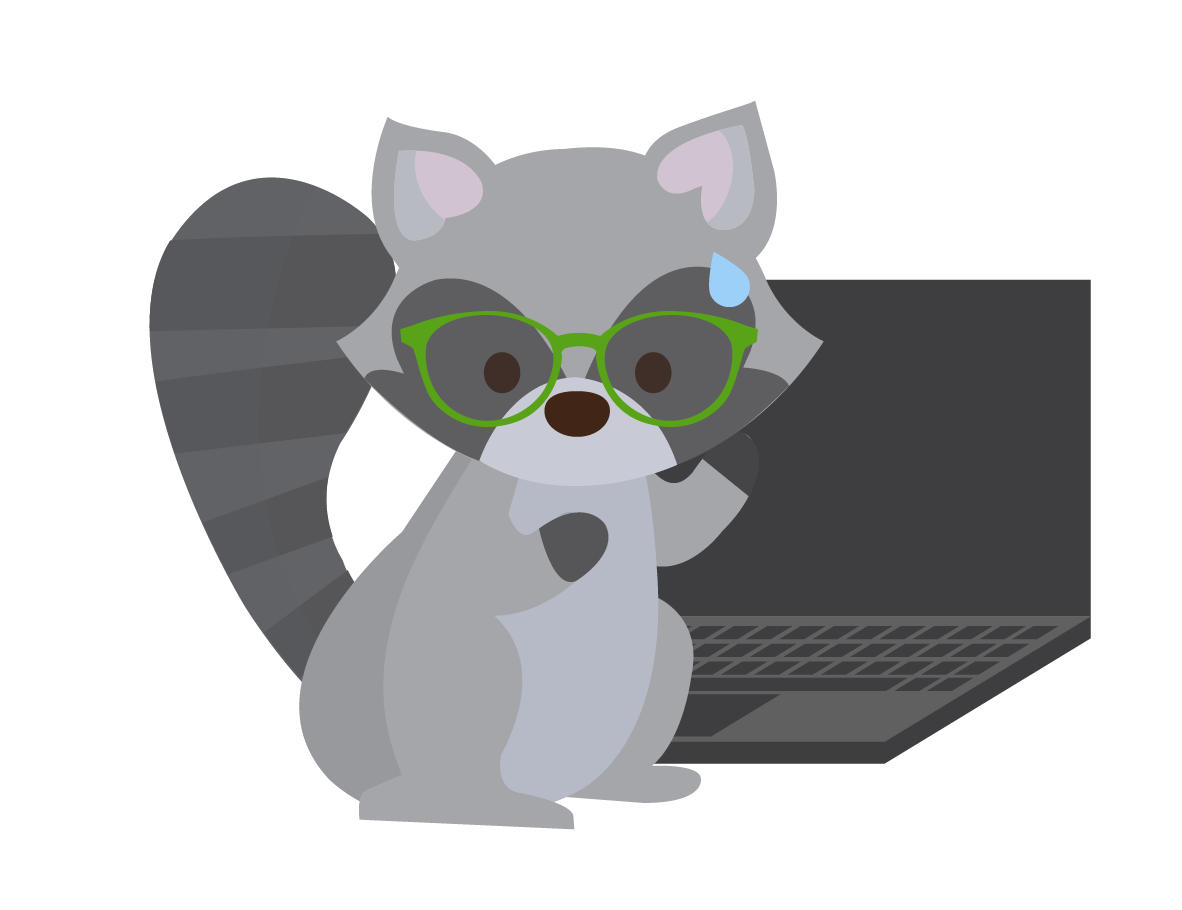
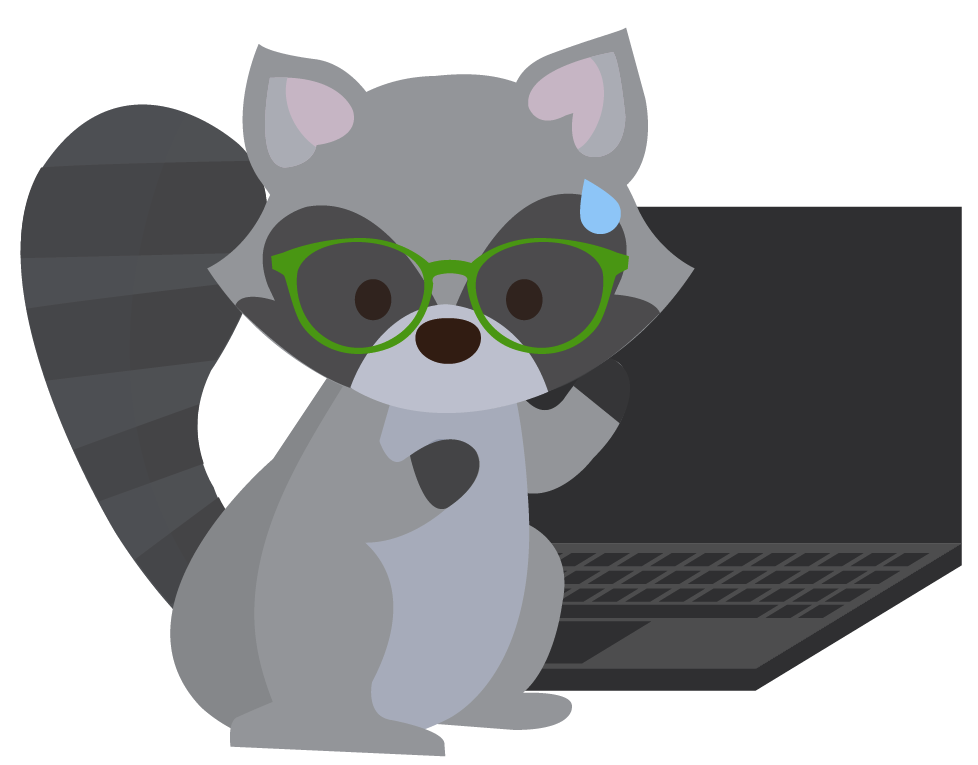
Reduced size of raccoon image

diff --git a/client/templates/index.html b/client/templates/index.html
@@ -9,7 +9,7 @@
     <meta name="Description" content="Visma hackathon idea collector">
 
     <link rel="stylesheet" href="https://fonts.googleapis.com/icon?family=Material+Icons">
-    <link rel="shortcut icon" href="/images/raccoon.png">
+    <link rel="shortcut icon" href="/images/raccoon-tiny.png">
 </head>
 
 <body>

diff --git a/client/templates/logged-out.html b/client/templates/logged-out.html
@@ -9,7 +9,7 @@
     <meta name="Description" content="Visma hackathon idea collector">
 
     <link rel="stylesheet" href="https://fonts.googleapis.com/icon?family=Material+Icons">
-    <link rel="shortcut icon" href="/images/raccoon.png">
+    <link rel="shortcut icon" href="/images/raccoon-tiny.png">
 </head>
 
 <body>

diff --git a/client/templates/login-error.html b/client/templates/login-error.html
@@ -9,7 +9,7 @@
     <meta name="Description" content="Visma hackathon idea collector">
 
     <link rel="stylesheet" href="https://fonts.googleapis.com/icon?family=Material+Icons">
-    <link rel="shortcut icon" href="/images/raccoon.png">
+    <link rel="shortcut icon" href="/images/raccoon-tiny.png">
 </head>
 
 <body>
